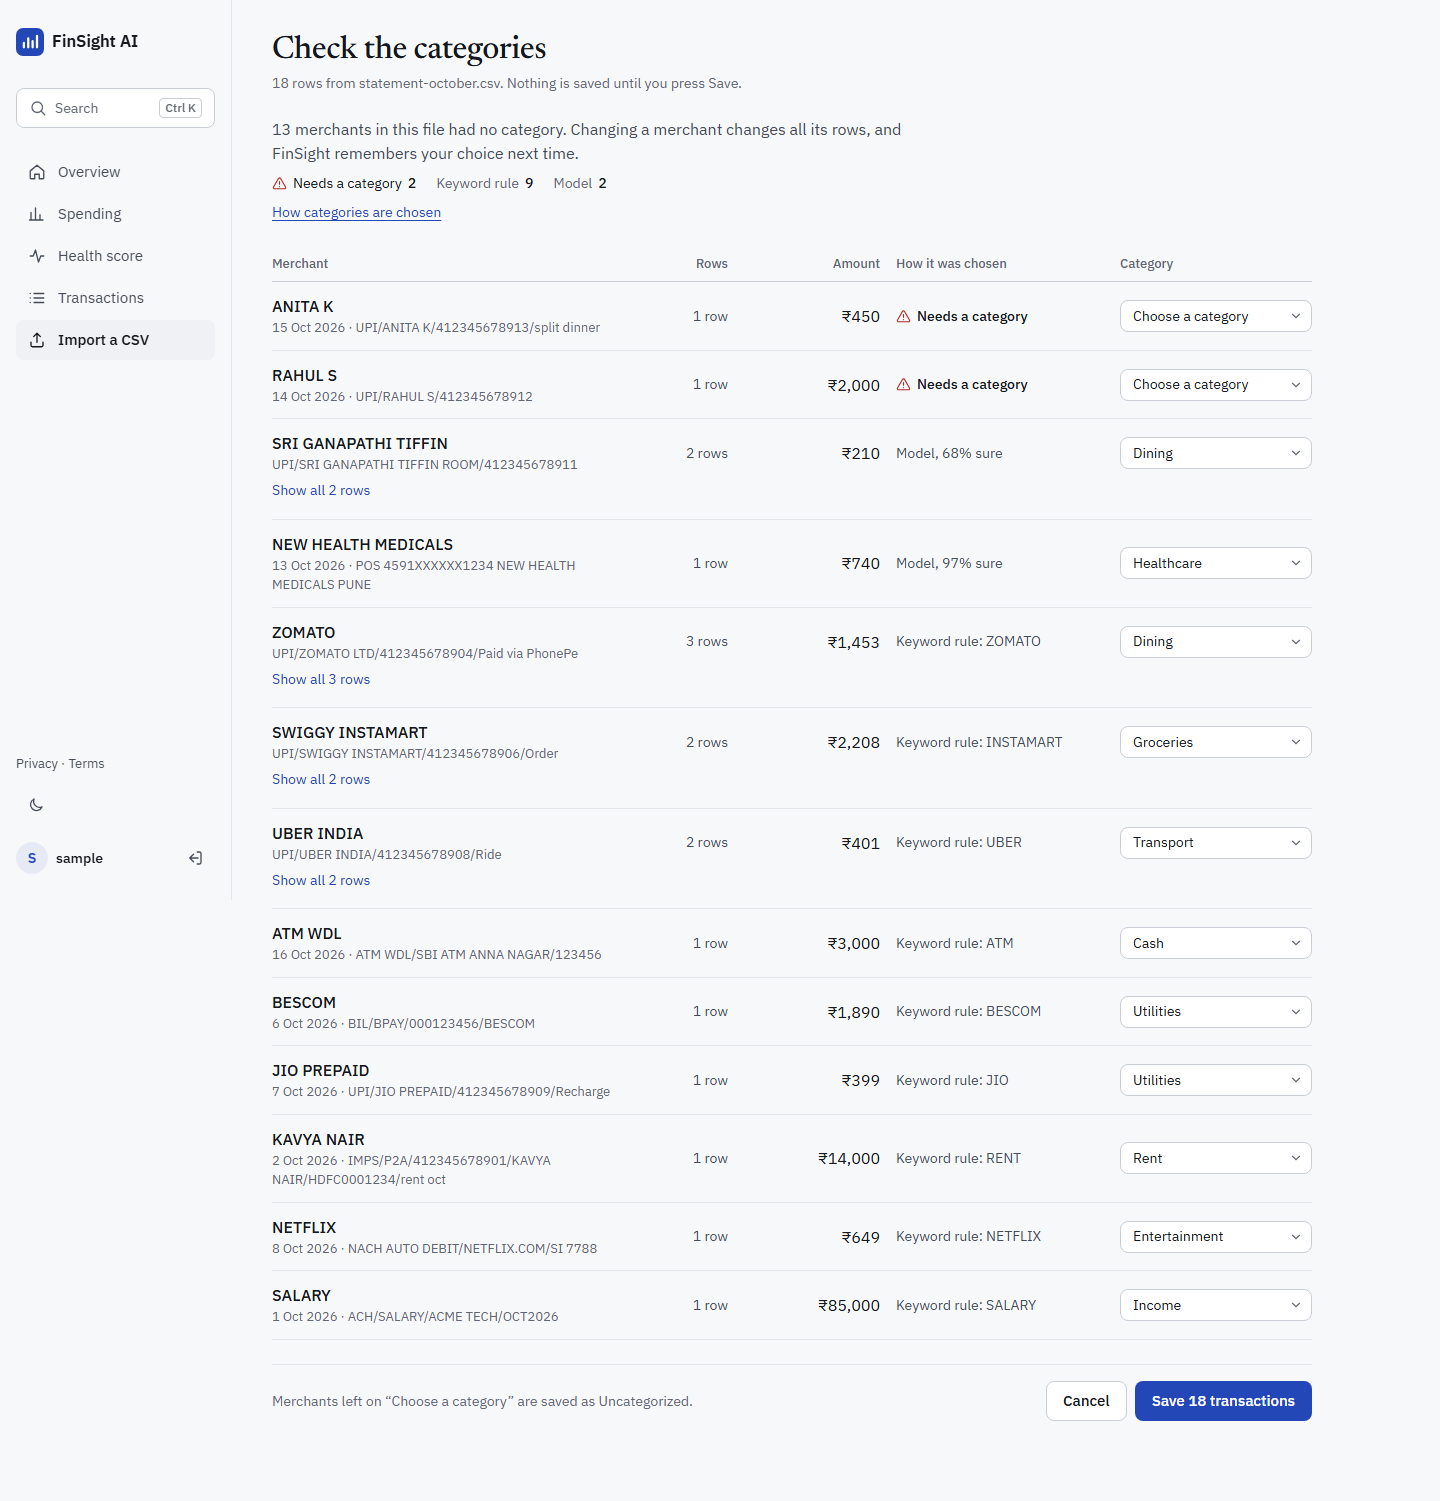
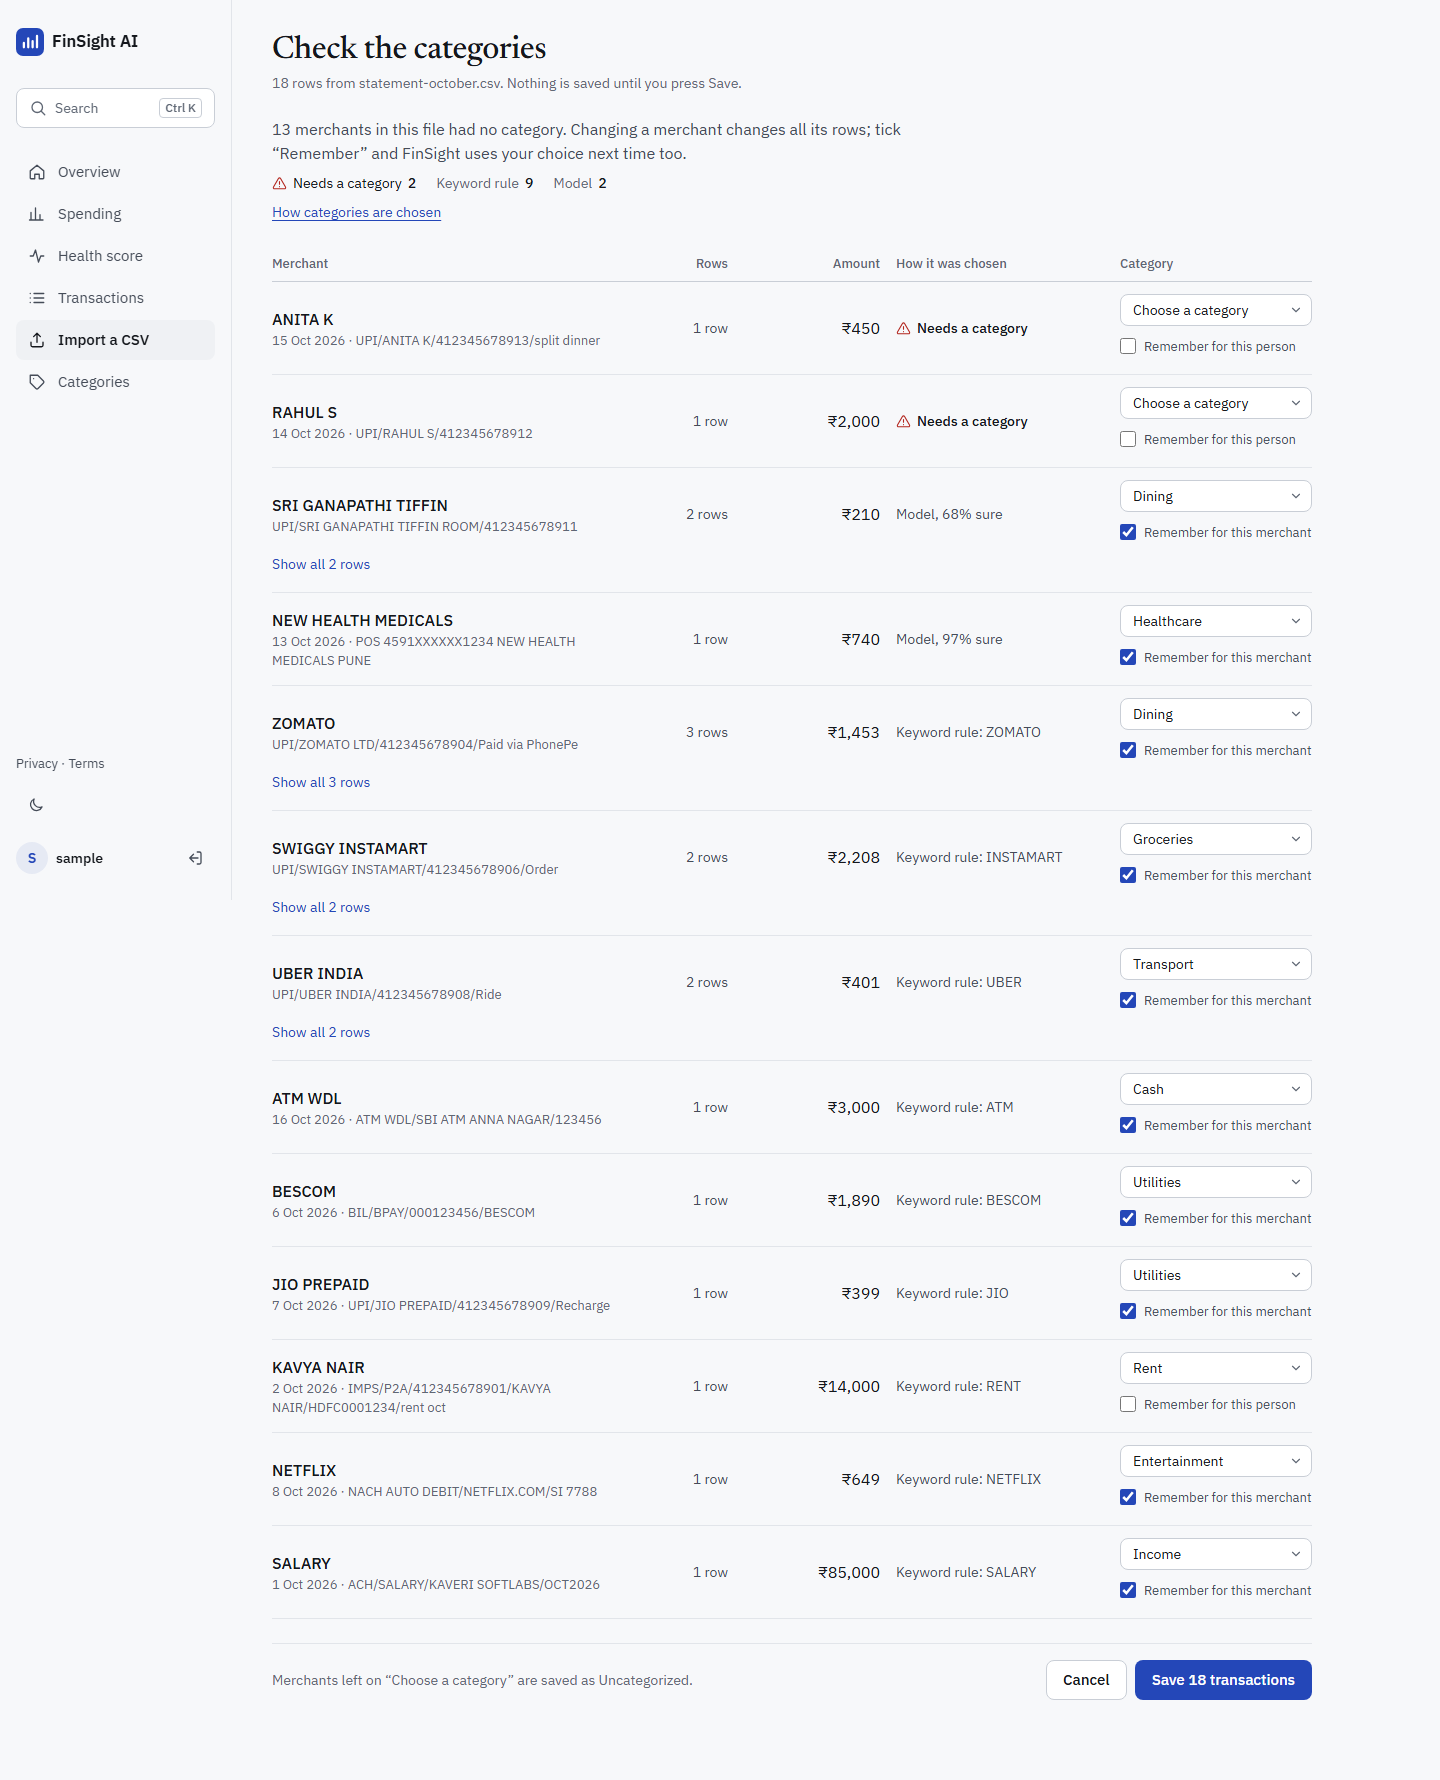
Screenshot the Categories page; refresh the review step and other captures
scripts/screenshots.py now saves its made-up statement once, after every
other capture (so the overview and landing pictures stay on the sample
data), then captures /categories at 1440 and 390 px, light and dark:
the two people left Uncategorized are listed first and open. The review
captures show the new Remember boxes. The sample salary comes from a
made-up employer, KAVERI SOFTLABS, instead of the placeholder ACME TECH
(flagged by the design inspector).

diff --git a/scripts/screenshots.py b/scripts/screenshots.py
@@ -7,7 +7,8 @@ sample transactions, then saves:
 
 - static/img/<part>-<theme>.jpg   crops of the dashboard used on the landing page
 - docs/screenshots/<page>-<width>-<theme>.png   full pages for the README, including the
-  import review step for REVIEW_CSV (a made-up statement with no Category column)
+  import review step for REVIEW_CSV (a made-up statement with no Category column) and the
+  Categories page after saving it
 
 Needs the dev requirements (Playwright) and Google Chrome, or Playwright's Chromium.
 Nothing from the run is kept: the database lives in a temporary folder.
@@ -42,7 +43,7 @@ CROP_VIEWPORT = 940
 PAGES = {"landing": "/", "upload": "/upload", "dashboard": "/dashboard"}
 # A made-up statement without categories: keyword rules, model guesses and merchants left for the user.
 REVIEW_CSV = """Date,Amount,Type,Description
-2026-10-01,85000,Income,ACH/SALARY/ACME TECH/OCT2026
+2026-10-01,85000,Income,ACH/SALARY/KAVERI SOFTLABS/OCT2026
 2026-10-02,14000,Expense,IMPS/P2A/412345678901/KAVYA NAIR/HDFC0001234/rent oct
 2026-10-03,486,Expense,UPI/ZOMATO LTD/412345678902/Paid via PhonePe
 2026-10-09,312,Expense,UPI/ZOMATO LTD/412345678903/Paid via PhonePe
@@ -176,10 +177,32 @@ def main() -> None:
                             page.add_style_tag(content=".tabbar { position: static; }")
                             page.screenshot(path=shots_dir / f"{name}-{width}-{theme}.png", full_page=True)
                             context.close()
+
+                # The Categories page needs saved data: save the made-up statement once, after every other
+                # capture, so the overview and landing pictures stay on the sample data. The two people left
+                # Uncategorized are listed first and open.
+                context = browser.new_context(storage_state=storage)
+                page = context.new_page()
+                page.goto(f"{BASE}/upload")
+                page.set_input_files("input[type=file]", str(review_csv))
+                page.click("form.form button[type=submit]")
+                page.wait_for_load_state("networkidle")
+                page.click("form.review-form button[type=submit]")
+                page.wait_for_load_state("networkidle")
+                context.close()
+                for theme in THEMES:
+                    for width, height in WIDTHS.items():
+                        context = themed_context(browser, theme, width, height, 1, storage)
+                        page = context.new_page()
+                        page.goto(f"{BASE}/categories")
+                        settle(page)
+                        page.add_style_tag(content=".tabbar { position: static; }")
+                        page.screenshot(path=shots_dir / f"categories-{width}-{theme}.png", full_page=True)
+                        context.close()
                 browser.close()
         finally:
             server.shutdown()
-    print(f"Saved {(len(CROPS) + 1) * len(THEMES) * 2} crops to {img_dir} and {(len(PAGES) + 1) * len(WIDTHS) * len(THEMES)} pages to {shots_dir}")
+    print(f"Saved {(len(CROPS) + 1) * len(THEMES) * 2} crops to {img_dir} and {(len(PAGES) + 2) * len(WIDTHS) * len(THEMES)} pages to {shots_dir}")
 
 
 if __name__ == "__main__":
